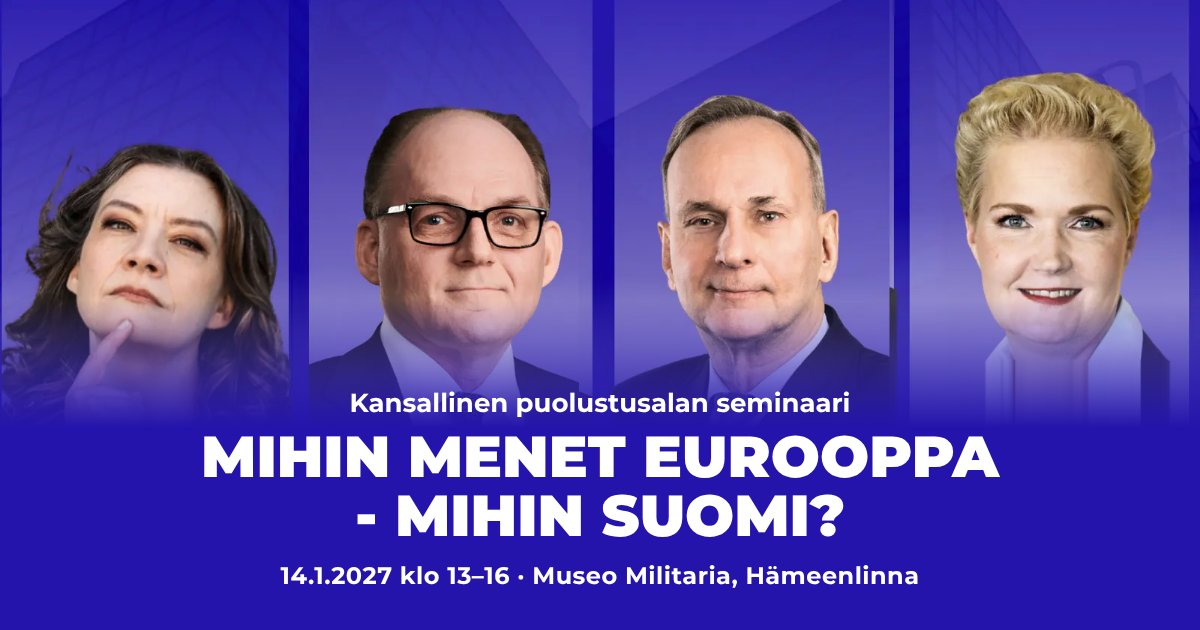
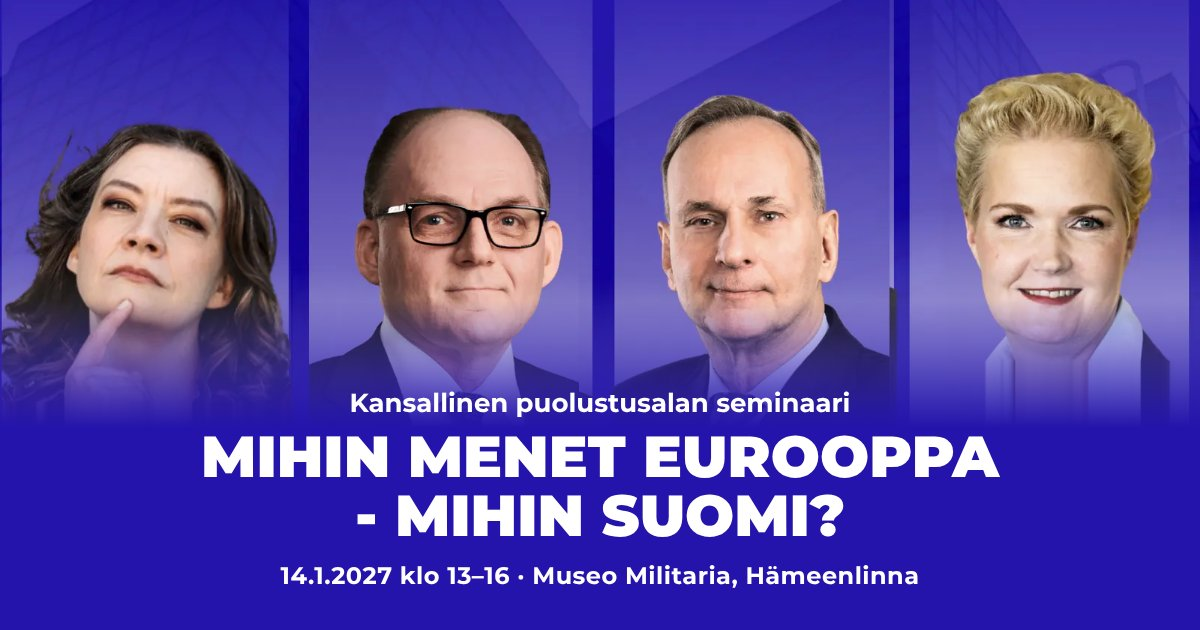
Puolustuksen headerkuva: Kortesuo ylemmäs
Claude-Session: https://claude.ai/code/session_01BAnQRurGiUY5PGZvuWWevC

Changed region(s): [[0.0, 0.181, 0.2467, 0.6032]]

diff --git a/index.html b/index.html
@@ -51,7 +51,7 @@
 
 <main class="seminars" id="seminaarit">
   <article class="sem">
-    <a class="sem-top hero-ad" href="puolustus" tabindex="-1" aria-hidden="true"><div class="ad"><img src="kuvat/hero-puolustus-v2.webp" alt="" width="1600" height="699" loading="lazy"><div class="names"><div class="n"><div class="lbl"><b>Katleena<br>Kortesuo</b></div></div><div class="n"><div class="lbl"><b>Timo<br>Rotonen</b></div></div><div class="n"><div class="lbl"><b>Esa<br>Rautalinko</b></div></div><div class="n"><div class="lbl"><b>Tuija<br>Karanko</b></div></div></div></div></a>
+    <a class="sem-top hero-ad" href="puolustus" tabindex="-1" aria-hidden="true"><div class="ad"><img src="kuvat/hero-puolustus-v3.webp" alt="" width="1600" height="699" loading="lazy"><div class="names"><div class="n"><div class="lbl"><b>Katleena<br>Kortesuo</b></div></div><div class="n"><div class="lbl"><b>Timo<br>Rotonen</b></div></div><div class="n"><div class="lbl"><b>Esa<br>Rautalinko</b></div></div><div class="n"><div class="lbl"><b>Tuija<br>Karanko</b></div></div></div></div></a>
     <div class="sem-body">
       <div class="sem-k">Kansallinen puolustusalan seminaari</div>
       <h2><a href="puolustus">Mihin menet Eurooppa<br>- mihin Suomi?</a></h2>

diff --git a/puolustus.html b/puolustus.html
@@ -60,7 +60,7 @@ window.SEMINAARI = {
 
 <header class="hero hero-ad">
   <div class="ad">
-    <img src="kuvat/hero-puolustus-v2.webp" alt="Katleena Kortesuo, Timo Rotonen, Esa Rautalinko ja Tuija Karanko" width="1600" height="699">
+    <img src="kuvat/hero-puolustus-v3.webp" alt="Katleena Kortesuo, Timo Rotonen, Esa Rautalinko ja Tuija Karanko" width="1600" height="699">
     <div class="names"><div class="n" style="--b:73%"><div class="lbl"><b>Katleena<br>Kortesuo</b><small>Tietokirjailija</small></div></div><div class="n" style="--b:73%"><div class="lbl"><b>Timo<br>Rotonen</b><small>Kenraaliluutnantti EVP</small></div></div><div class="n" style="--b:73%"><div class="lbl"><b>Esa<br>Rautalinko</b><small>Patrian toimitusjohtaja 2019-2026</small></div></div><div class="n" style="--b:73%"><div class="lbl"><b>Tuija<br>Karanko</b><small>PIA pääsihteeri</small></div></div></div>
   </div>
   <div class="hero-text"><div class="in">
